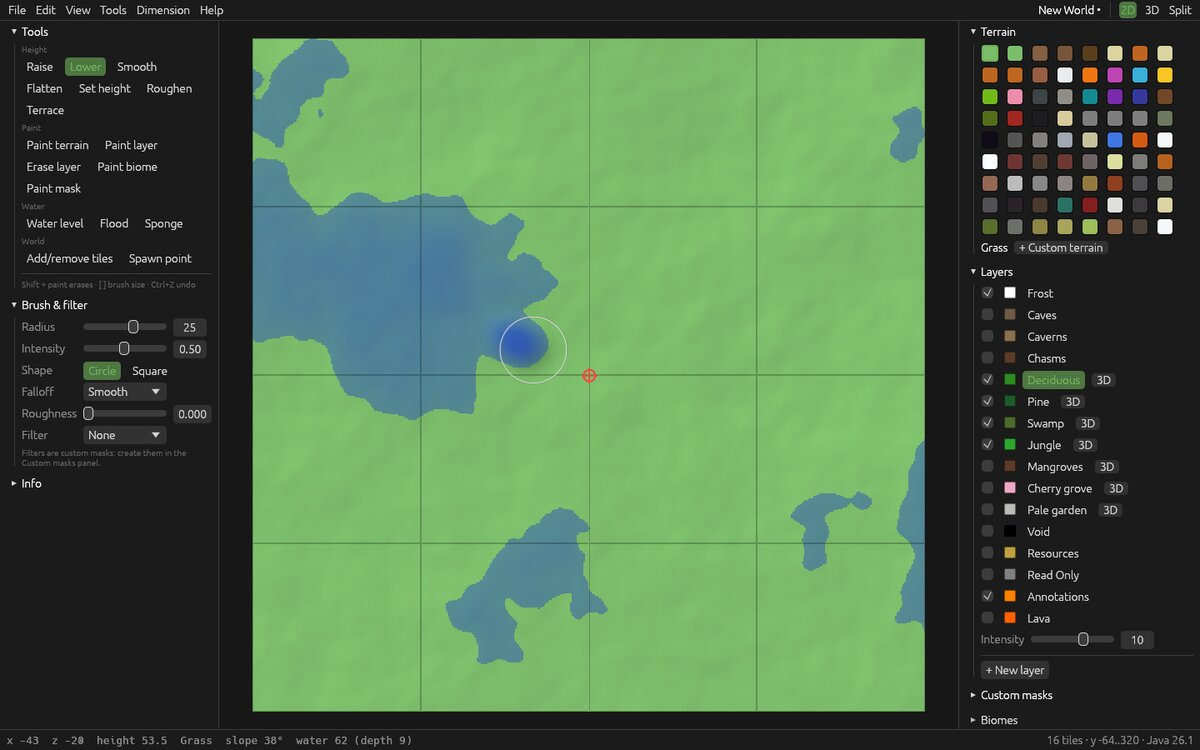
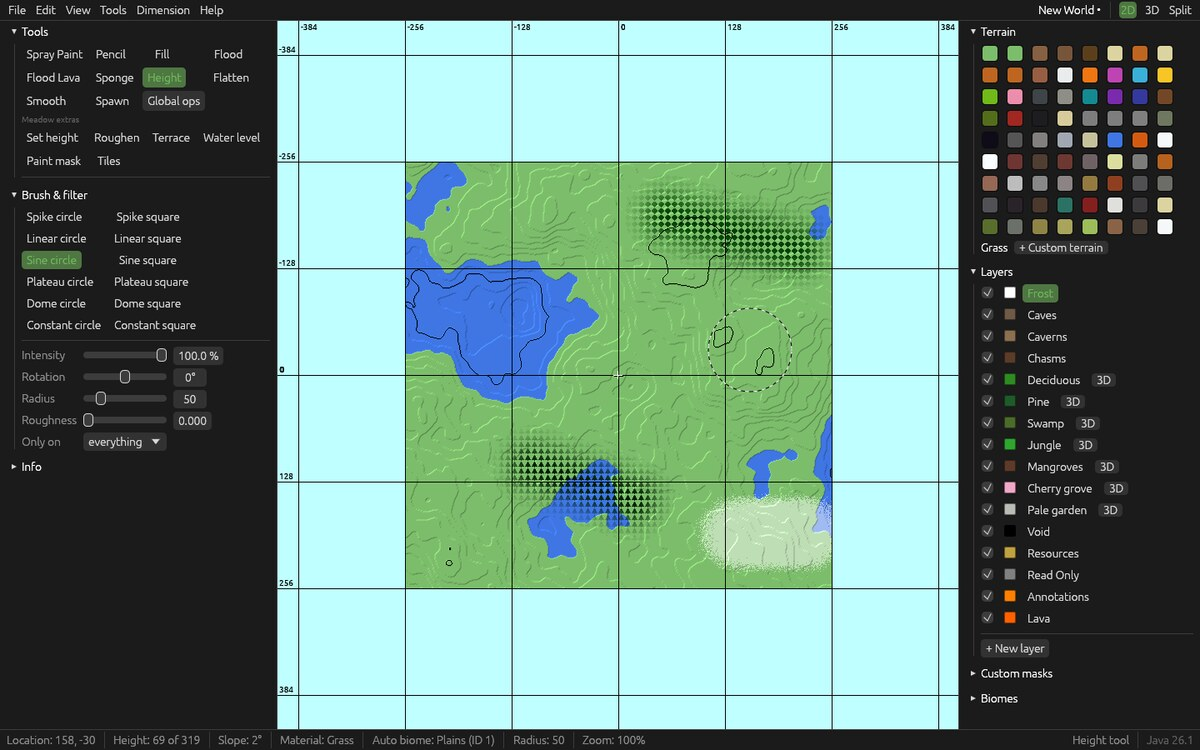
Update README screenshots for the WorldPainter-style map
Claude-Session: https://claude.ai/code/session_019UEESFpFcYZT8AemEWMCuR

diff --git a/README.md b/README.md
@@ -50,6 +50,8 @@ On Linux you also need the usual windowing libraries (`libxkbcommon`, `libwaylan
 
 Meadow uses WorldPainter's controls, map colours and tool names, so WorldPainter users can start straight away. **Help › Controls** (F1) lists them all; [docs/worldpainter-parity.md](docs/worldpainter-parity.md) tracks what matches so far.
 
+![2D map in WorldPainter's style: hill shading, contours, forest stamps, frost and the 128-block grid](docs/images/editor-2d.jpg)
+
 * **Mouse (2D map):** left-click or drag applies the tool. Right-click (or Alt+click) does the opposite: lower instead of raise, remove a layer, reset terrain to the height-based theme, or set a biome back to automatic. Middle-drag or Space+drag pans.
 * **Wheel:** changes the brush size (Shift: by one block). Ctrl+wheel zooms in powers of two (6.25 %–6400 %) and Alt+wheel rotates the brush.
 * **Keys:** `1`–`0` set the intensity in WorldPainter's ten steps, `R`/`L` rotate the hill-shading light, and `[`/`]` resize the brush. Alt+R/P/L/F/H/A/S pick Spray paint, Pencil, Fill, Flood, Height, Flatten and Smooth.
